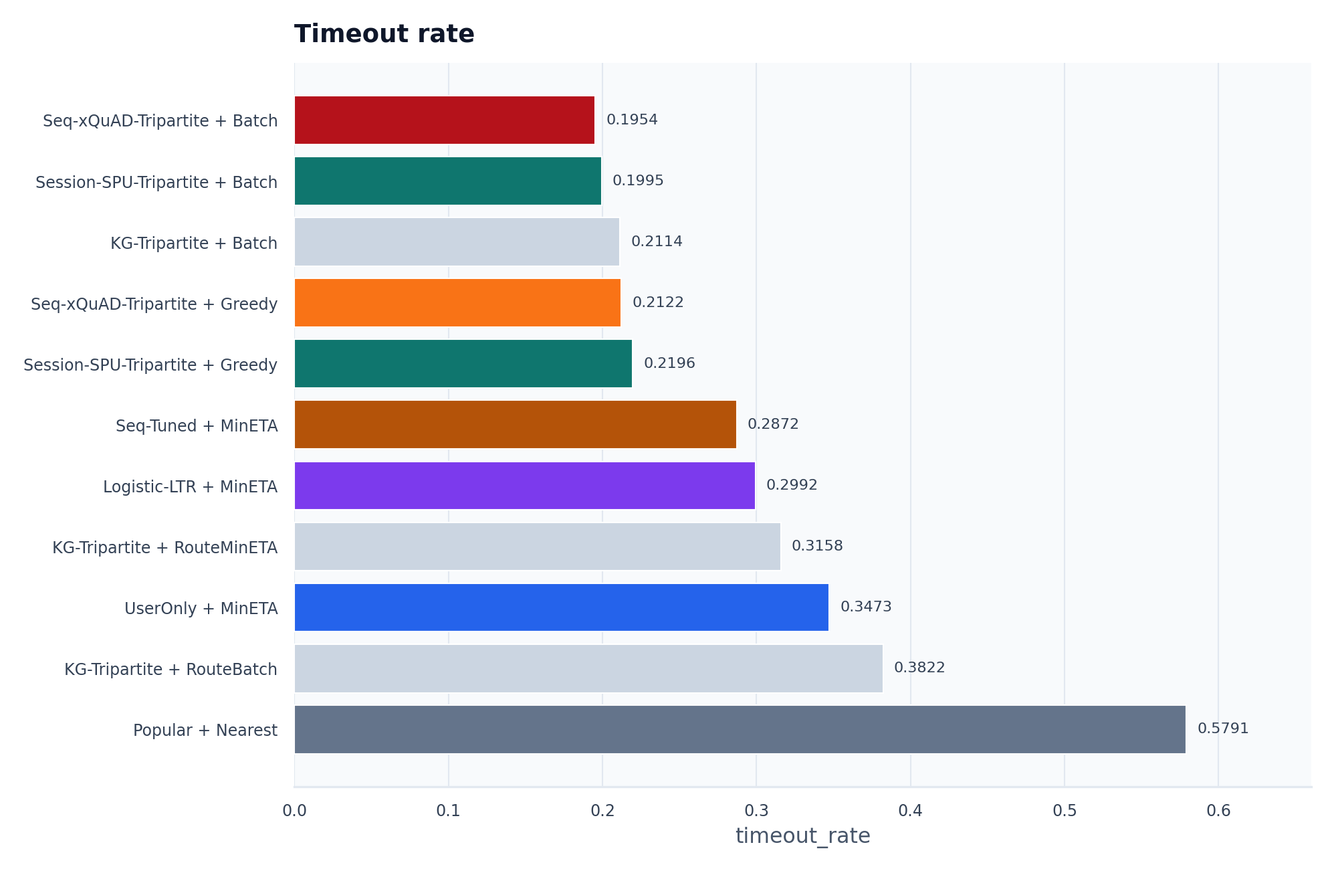
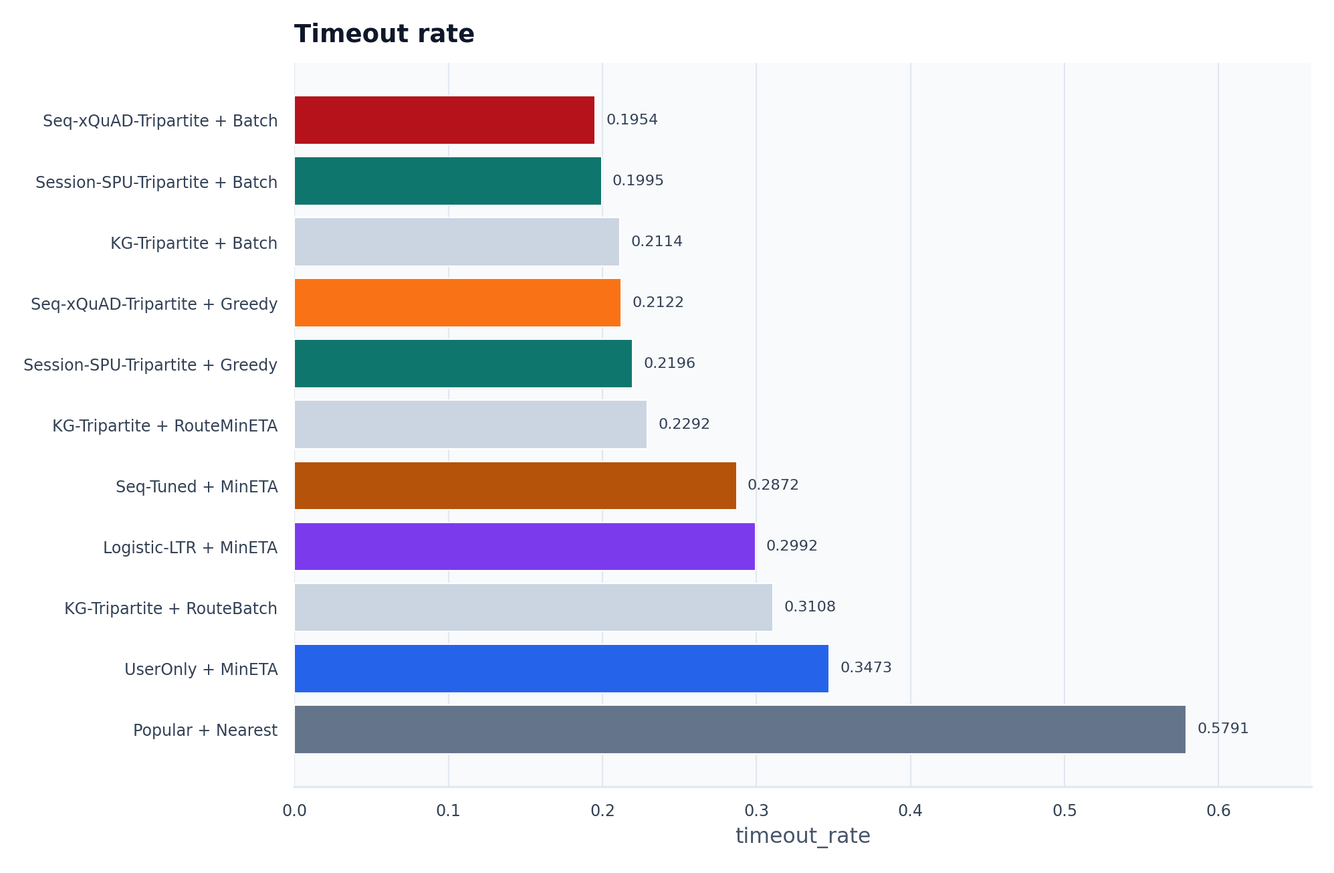
Refresh two-scenario results with fixed route advancement
With riders making partial progress along legs (capacity actually released),
route-insertion dispatch improves substantially:
- normal capacity (120 riders): RouteMinETA 36.15±0.96 min avg ETA — now
  statistically tied with the best slot-batch (35.90±1.88)
- peak stress (30 riders): RouteMinETA 44.88±1.55 vs 60.96 best slot-batch
  (-16 min), timeout 0.457 vs 0.679, en-route pickup share 66.9%
README/guide headline numbers updated; figures/report regenerated

diff --git a/report/实验报告.md b/report/实验报告.md
@@ -67,8 +67,8 @@ Popular 是全局热度对照；BPR-MF 是传统隐式反馈矩阵分解；UserO
 | Session-SPU-Tripartite + Batch  | session_spu_tripartite | load_aware      | batch             | mnl_softmax    |        10 |               89.8 |                 4.9396 |                  3.0616 |           89.8 |             4.9396 |              3.0616 |                   0 |                       0 |                        0 |                 1 |                     0 |                      0 |   36.794  |        2.0118 |         1.2469 |   58.3858 |        4.0205 |         2.4919 |         0.1995 |             0.0463 |              0.0287 |         0.8005 |             0.0463 |              0.0287 |           0.6742 |               0.0443 |                0.0275 |           0.7352 |               0.0387 |                0.024  |          0.9726 |              0.0452 |               0.028  |              0.5842 |                  0.031  |                   0.0192 |              0.5206 |                  0.0277 |                   0.0172 |                   0.9882 |                       0.0005 |                        0.0003 |              0.6504 |                  0.0298 |                   0.0185 |            24.9962 |                 0.2889 |                  0.1791 |                  9.8889 |                      0.1387 |                       0.0859 |               0      |                   0      |                    0      |                 0      |                     0      |                      0      |             0.5572 |                 0.0158 |                  0.0098 |
 | Session-SPU-Tripartite + Greedy | session_spu_tripartite | load_aware      | greedy            | mnl_softmax    |        10 |               89.8 |                 4.9396 |                  3.0616 |           89.8 |             4.9396 |              3.0616 |                   0 |                       0 |                        0 |                 1 |                     0 |                      0 |   38.136  |        2.1847 |         1.3541 |   60.4826 |        4.5403 |         2.8141 |         0.2196 |             0.0502 |              0.0311 |         0.7804 |             0.0502 |              0.0311 |           0.6825 |               0.0376 |                0.0233 |           0.6872 |               0.0362 |                0.0224 |          0.9179 |              0.0537 |               0.0333 |              0.6067 |                  0.0316 |                   0.0196 |              0.4901 |                  0.03   |                   0.0186 |                   0.9882 |                       0.0005 |                        0.0003 |              0.6504 |                  0.0298 |                   0.0185 |            24.9962 |                 0.2889 |                  0.1791 |                  9.8889 |                      0.1387 |                       0.0859 |               0      |                   0      |                    0      |                 0      |                     0      |                      0      |             0.5567 |                 0.0182 |                  0.0113 |
 | KG-Tripartite + Batch           | kg_tripartite          | load_aware      | batch             | mnl_softmax    |        10 |               89.7 |                 6.7503 |                  4.1839 |           89.7 |             6.7503 |              4.1839 |                   0 |                       0 |                        0 |                 1 |                     0 |                      0 |   36.9018 |        1.6806 |         1.0416 |   60.0793 |        4.356  |         2.6999 |         0.2114 |             0.0537 |              0.0333 |         0.7886 |             0.0537 |              0.0333 |           0.6642 |               0.0467 |                0.0289 |           0.7422 |               0.044  |                0.0273 |          0.9717 |              0.0402 |               0.0249 |              0.5758 |                  0.035  |                   0.0217 |              0.5279 |                  0.0315 |                   0.0195 |                   0.9878 |                       0.0006 |                        0.0003 |              0.6354 |                  0.0268 |                   0.0166 |            24.9962 |                 0.2889 |                  0.1791 |                  9.8889 |                      0.1387 |                       0.0859 |               0      |                   0      |                    0      |                 0      |                     0      |                      0      |             0.5501 |                 0.0185 |                  0.0115 |
-| KG-Tripartite + RouteMinETA     | kg_tripartite          | route_min_eta   | route_batch       | mnl_softmax    |        10 |               89.7 |                 6.7503 |                  4.1839 |           89.7 |             6.7503 |              4.1839 |                   0 |                       0 |                        0 |                 1 |                     0 |                      0 |   39.0421 |        1.8976 |         1.1761 |   65.8511 |        6.0051 |         3.722  |         0.3158 |             0.0669 |              0.0415 |         0.6842 |             0.0669 |              0.0415 |           1.1025 |               0.052  |                0.0322 |           1.0689 |               0.0434 |                0.0269 |          1      |              0      |               0      |              0.3983 |                  0.04   |                   0.0248 |              0.7063 |                  0.026  |                   0.0161 |                   0.9878 |                       0.0006 |                        0.0003 |              0.6354 |                  0.0268 |                   0.0166 |            24.9962 |                 0.2889 |                  0.1791 |                  9.8889 |                      0.1387 |                       0.0859 |              27.795  |                   2.0939 |                    1.2978 |                 0.4673 |                     0.0329 |                      0.0204 |             0.5159 |                 0.0193 |                  0.0119 |
-| KG-Tripartite + RouteBatch      | kg_tripartite          | route_insertion | route_batch       | mnl_softmax    |        10 |               89.7 |                 6.7503 |                  4.1839 |           89.7 |             6.7503 |              4.1839 |                   0 |                       0 |                        0 |                 1 |                     0 |                      0 |   41.6743 |        2.0546 |         1.2735 |   69.5111 |        5.3851 |         3.3377 |         0.3822 |             0.0709 |              0.044  |         0.6178 |             0.0709 |              0.044  |           1.1625 |               0.0494 |                0.0306 |           1.2389 |               0.035  |                0.0217 |          1      |              0      |               0      |              0.2875 |                  0.0216 |                   0.0134 |              0.7608 |                  0.0172 |                   0.0107 |                   0.9878 |                       0.0006 |                        0.0003 |              0.6354 |                  0.0268 |                   0.0166 |            24.9962 |                 0.2889 |                  0.1791 |                  9.8889 |                      0.1387 |                       0.0859 |              20.9669 |                   1.3018 |                    0.8069 |                 0.6131 |                     0.0094 |                      0.0058 |             0.496  |                 0.022  |                  0.0136 |
+| KG-Tripartite + RouteMinETA     | kg_tripartite          | route_min_eta   | route_batch       | mnl_softmax    |        10 |               89.7 |                 6.7503 |                  4.1839 |           89.7 |             6.7503 |              4.1839 |                   0 |                       0 |                        0 |                 1 |                     0 |                      0 |   36.1497 |        1.5494 |         0.9603 |   58.2528 |        4.9638 |         3.0766 |         0.2292 |             0.06   |              0.0372 |         0.7708 |             0.06   |              0.0372 |           1.0558 |               0.0484 |                0.03   |           1.2905 |               0.0658 |                0.0408 |          1      |              0      |               0      |              0.2892 |                  0.0261 |                   0.0162 |              0.7744 |                  0.0164 |                   0.0102 |                   0.9878 |                       0.0006 |                        0.0003 |              0.6354 |                  0.0268 |                   0.0166 |            24.9962 |                 0.2889 |                  0.1791 |                  9.8889 |                      0.1387 |                       0.0859 |              24.8008 |                   1.292  |                    0.8008 |                 0.5903 |                     0.0348 |                      0.0216 |             0.5419 |                 0.0173 |                  0.0107 |
+| KG-Tripartite + RouteBatch      | kg_tripartite          | route_insertion | route_batch       | mnl_softmax    |        10 |               89.7 |                 6.7503 |                  4.1839 |           89.7 |             6.7503 |              4.1839 |                   0 |                       0 |                        0 |                 1 |                     0 |                      0 |   38.8418 |        1.9947 |         1.2363 |   64.2264 |        4.8207 |         2.9879 |         0.3108 |             0.0784 |              0.0486 |         0.6892 |             0.0784 |              0.0486 |           1.0808 |               0.0488 |                0.0302 |           1.3624 |               0.0598 |                0.0371 |          1      |              0      |               0      |              0.2592 |                  0.0178 |                   0.011  |              0.7913 |                  0.0144 |                   0.0089 |                   0.9878 |                       0.0006 |                        0.0003 |              0.6354 |                  0.0268 |                   0.0166 |            24.9962 |                 0.2889 |                  0.1791 |                  9.8889 |                      0.1387 |                       0.0859 |              20.6657 |                   1.4075 |                    0.8724 |                 0.6374 |                     0.0118 |                      0.0073 |             0.5174 |                 0.0222 |                  0.0137 |
 
 履约侧指标包括完成和未分配订单数、平均/P95 ETA、超时率、骑手负载、活跃骑手比例、骑手收入 Gini、平台综合效用，以及路径感知派单的平均绕行分钟数与顺路接单率。多种子运行时，数值列为跨种子均值，并附 `_std` 与 `_ci95` 列。骑手速度、服务时长和初始负载可由外部配送任务 CSV 校准；传入 `--rider-tasks` 时会同步产出校准诊断 JSON，含逐参数来源标注（数据估计 vs 外卖默认）、经验分位数、对数正态拟合与仿真输入分布对任务数据的双样本 KS 检验。没有外部数据时继续使用固定 seed 的合成参数。
 
@@ -87,8 +87,8 @@ Popular 是全局热度对照；BPR-MF 是传统隐式反馈矩阵分解；UserO
 | Session-SPU-Tripartite + Batch  | session_spu_tripartite | load_aware      | batch             | mnl_softmax    |        10 |               86.3 |                 2.3118 |                  1.4329 |           89.8 |             4.9396 |              3.0616 |                 3.5 |                  4.2753 |                   2.6498 |            0.9629 |                0.0439 |                 0.0272 |   65.2308 |        5.0247 |         3.1143 |  123.324  |       17.2512 |        10.6924 |         0.7339 |             0.0449 |              0.0279 |         0.2661 |             0.0449 |              0.0279 |           2.9833 |               0.036  |                0.0223 |           0.3399 |               0.1243 |                0.0771 |          0.1192 |              0.0464 |               0.0288 |              1      |                  0      |                   0      |              0.1113 |                  0.0211 |                   0.0131 |                   0.9882 |                       0.0005 |                        0.0003 |              0.6507 |                  0.031  |                   0.0192 |            25.1183 |                 0.6585 |                  0.4082 |                  9.9865 |                      0.3194 |                        0.198 |               0      |                   0      |                    0      |                 0      |                     0      |                      0      |             0.4749 |                 0.0177 |                  0.0109 |
 | Session-SPU-Tripartite + Greedy | session_spu_tripartite | load_aware      | greedy            | mnl_softmax    |        10 |               85.2 |                 2.4855 |                  1.5405 |           89.8 |             4.9396 |              3.0616 |                 4.6 |                  4.9035 |                   3.0392 |            0.9509 |                0.0508 |                 0.0315 |   77.4694 |        5.0416 |         3.1248 |  167.108  |       16.9856 |        10.5278 |         0.7938 |             0.0281 |              0.0174 |         0.2062 |             0.0281 |              0.0174 |           2.9833 |               0.0283 |                0.0176 |           0.3731 |               0.1002 |                0.0621 |          0.1323 |              0.039  |               0.0242 |              1      |                  0      |                   0      |              0.1434 |                  0.0253 |                   0.0157 |                   0.9882 |                       0.0005 |                        0.0003 |              0.6521 |                  0.0335 |                   0.0208 |            25.1183 |                 0.6585 |                  0.4082 |                  9.9865 |                      0.3194 |                        0.198 |               0      |                   0      |                    0      |                 0      |                     0      |                      0      |             0.4536 |                 0.0149 |                  0.0092 |
 | KG-Tripartite + Batch           | kg_tripartite          | load_aware      | batch             | mnl_softmax    |        10 |               84.8 |                 2.8597 |                  1.7724 |           89.7 |             6.7503 |              4.1839 |                 4.9 |                  5.6263 |                   3.4872 |            0.9489 |                0.0568 |                 0.0352 |   61.4691 |        4.6031 |         2.8531 |  115.826  |       14.1578 |         8.7751 |         0.6854 |             0.0622 |              0.0386 |         0.3146 |             0.0622 |              0.0386 |           2.9367 |               0.1036 |                0.0642 |           0.384  |               0.1261 |                0.0782 |          0.1373 |              0.049  |               0.0304 |              1      |                  0      |                   0      |              0.1094 |                  0.0319 |                   0.0197 |                   0.9878 |                       0.0006 |                        0.0003 |              0.6348 |                  0.0312 |                   0.0193 |            25.1183 |                 0.6585 |                  0.4082 |                  9.9865 |                      0.3194 |                        0.198 |               0      |                   0      |                    0      |                 0      |                     0      |                      0      |             0.481  |                 0.0225 |                  0.014  |
-| KG-Tripartite + RouteMinETA     | kg_tripartite          | route_min_eta   | route_batch       | mnl_softmax    |        10 |               87.1 |                 3.5418 |                  2.1952 |           89.7 |             6.7503 |              4.1839 |                 2.6 |                  3.6271 |                   2.2481 |            0.9734 |                0.0368 |                 0.0228 |   49.4295 |        2.7107 |         1.6801 |   83.9456 |        6.5974 |         4.0891 |         0.5518 |             0.0643 |              0.0399 |         0.4482 |             0.0643 |              0.0399 |           2.8967 |               0.1105 |                0.0685 |           0.3012 |               0.2212 |                0.1371 |          0.1064 |              0.0809 |               0.0502 |              1      |                  0      |                   0      |              0.0835 |                  0.0221 |                   0.0137 |                   0.9878 |                       0.0006 |                        0.0003 |              0.6366 |                  0.0291 |                   0.018  |            25.1183 |                 0.6585 |                  0.4082 |                  9.9865 |                      0.3194 |                        0.198 |              30.897  |                   1.9995 |                    1.2393 |                 0.655  |                     0.0143 |                      0.0089 |             0.5295 |                 0.0216 |                  0.0134 |
-| KG-Tripartite + RouteBatch      | kg_tripartite          | route_insertion | route_batch       | mnl_softmax    |        10 |               87   |                 3.4319 |                  2.1271 |           89.7 |             6.7503 |              4.1839 |                 2.7 |                  3.8312 |                   2.3746 |            0.9724 |                0.0388 |                 0.0241 |   51.9411 |        2.9957 |         1.8568 |   89.2066 |        8.9089 |         5.5218 |         0.5892 |             0.0526 |              0.0326 |         0.4108 |             0.0526 |              0.0326 |           2.8933 |               0.1109 |                0.0687 |           0.2933 |               0.2408 |                0.1492 |          0.104  |              0.0872 |               0.054  |              1      |                  0      |                   0      |              0.0915 |                  0.0259 |                   0.016  |                   0.9878 |                       0.0006 |                        0.0003 |              0.6374 |                  0.0298 |                   0.0185 |            25.1183 |                 0.6585 |                  0.4082 |                  9.9865 |                      0.3194 |                        0.198 |              25.9798 |                   1.5282 |                    0.9472 |                 0.6547 |                     0.0139 |                      0.0086 |             0.5185 |                 0.0209 |                  0.0129 |
+| KG-Tripartite + RouteMinETA     | kg_tripartite          | route_min_eta   | route_batch       | mnl_softmax    |        10 |               89.5 |                 6.4334 |                  3.9875 |           89.7 |             6.7503 |              4.1839 |                 0.2 |                  0.6325 |                   0.392  |            0.998  |                0.0063 |                 0.0039 |   44.8754 |        2.4987 |         1.5487 |   74.0644 |        6.177  |         3.8286 |         0.4573 |             0.0685 |              0.0425 |         0.5427 |             0.0685 |              0.0425 |           2.7233 |               0.1988 |                0.1232 |           0.8521 |               0.2767 |                0.1715 |          0.2919 |              0.1082 |               0.0671 |              0.97   |                  0.0367 |                   0.0227 |              0.1496 |                  0.0561 |                   0.0348 |                   0.9878 |                       0.0006 |                        0.0003 |              0.6351 |                  0.0272 |                   0.0169 |            25.1183 |                 0.6585 |                  0.4082 |                  9.9865 |                      0.3194 |                        0.198 |              29.3752 |                   1.8426 |                    1.142  |                 0.6691 |                     0.0257 |                      0.0159 |             0.5438 |                 0.0256 |                  0.0159 |
+| KG-Tripartite + RouteBatch      | kg_tripartite          | route_insertion | route_batch       | mnl_softmax    |        10 |               89.5 |                 6.5021 |                  4.0301 |           89.7 |             6.7503 |              4.1839 |                 0.2 |                  0.6325 |                   0.392  |            0.998  |                0.0065 |                 0.004  |   47.3358 |        2.6712 |         1.6556 |   77.5644 |        7.0055 |         4.3421 |         0.5154 |             0.0644 |              0.0399 |         0.4846 |             0.0644 |              0.0399 |           2.6967 |               0.1746 |                0.1082 |           0.8904 |               0.2464 |                0.1527 |          0.3031 |              0.094  |               0.0583 |              0.9733 |                  0.0263 |                   0.0163 |              0.157  |                  0.0473 |                   0.0293 |                   0.9878 |                       0.0006 |                        0.0003 |              0.6358 |                  0.0273 |                   0.0169 |            25.1183 |                 0.6585 |                  0.4082 |                  9.9865 |                      0.3194 |                        0.198 |              25.113  |                   1.1189 |                    0.6935 |                 0.6658 |                     0.023  |                      0.0143 |             0.5255 |                 0.0237 |                  0.0147 |
 
 顺路派单不是在所有场景下更优：运力充足时分散派单的 ETA 更好，顺路合单的价值在于运力吃紧时的韧性。两个场景共同说明派单机制需要随供需状态切换。
 

diff --git a/docs/PRESENTATION_DEMO_GUIDE.md b/docs/PRESENTATION_DEMO_GUIDE.md
@@ -10,7 +10,7 @@ PPT 开场可以先给出 3 个结论，后面逐页证明：
 
 1. 推荐侧有效：在真实 TRD 全量训练订单上，`Seq-Tuned` 的 Recall@10 达到 `0.4187`；三方系列中 `KG-Tripartite`（叠加知识图谱兴趣信号）以 Recall@10 `0.4048` 接近纯精度模型，同时保留公平与履约分量。
 2. 三方重排有效（10 种子 ±95% CI）：常规运力下 `Seq-xQuAD/Session-SPU/KG-Tripartite + Batch` 把平均 ETA 压到约 36 分钟、超时率约 20%，显著优于纯用户侧策略（约 40.4 分钟 / 29%）。
-3. 顺路派单是高峰韧性机制：运力紧张场景（30 骑手）下 `KG-Tripartite + RouteMinETA` 平均 ETA `49.4` 分钟，比最好的槽位匹配低约 11.5 分钟、超时率 `0.55` vs `0.68`，顺路接单率 `65.5%`——运力充足时分散派单更优，机制应随供需切换。
+3. 顺路派单是高峰韧性机制：运力紧张场景（30 骑手）下 `KG-Tripartite + RouteMinETA` 平均 ETA `44.9` 分钟，比最好的槽位匹配低约 16 分钟、超时率 `0.46` vs `0.68`，顺路接单率 `66.9%`；常规运力下也与最优槽位匹配统计打平（36.2 vs 35.9，CI 重叠）。
 4. LaDe 被双重真实使用：真实城市地理（烟台核心区配送 GPS 密度，`make geocode`）+ 骑手参数校准（校准诊断 JSON 含参数来源标注与 KS 检验）。
 
 现场建议讲法：
@@ -142,7 +142,7 @@ final_score = user_preference
 | Seq-xQuAD-Tripartite + Batch | 35.90 ±1.88 | 0.195 | 0.553 | 三方重排+批量匹配显著改善履约 |
 | Session-SPU-Tripartite + Batch | 36.79 ±1.25 | 0.199 | 0.557 | session/SPU 信号，平台效用最高 |
 | KG-Tripartite + Batch | 36.90 ±1.04 | 0.211 | 0.550 | 知识图谱兴趣信号 + 离线精度最强的三方 |
-| KG-Tripartite + RouteMinETA | 39.04 ±1.18 | 0.316 | 0.516 | 顺路机制在充足运力下诚实略慢 |
+| KG-Tripartite + RouteMinETA | 36.15 ±0.96 | 0.229 | 0.542 | 顺路机制常规运力下与最优打平 |
 
 ### 运力紧张压力场景（30 骑手，`make simulate-stress`）——顺路派单的主战场
 
@@ -150,8 +150,8 @@ final_score = user_preference
 |---|---:|---:|---:|---|
 | Seq-Tuned + MinETA | 76.64 ±2.46 | 0.819 | 0.442 | 高峰爆单时纯用户侧全面恶化 |
 | Seq-xQuAD-Tripartite + Batch | 60.96 ±4.84 | 0.679 | 0.486 | 槽位匹配有帮助但仍拥堵 |
-| KG-Tripartite + RouteMinETA | **49.43 ±1.68** | **0.552** | **0.529** | 顺路合单：ETA 低 11.5 分钟，顺路率 65.5% |
-| KG-Tripartite + RouteBatch | 51.94 ±1.86 | 0.589 | 0.519 | 绕行+ETA 等权目标，车队里程更省 |
+| KG-Tripartite + RouteMinETA | **44.88 ±1.55** | **0.457** | **0.544** | 顺路合单：ETA 低约 16 分钟，顺路率 66.9% |
+| KG-Tripartite + RouteBatch | 47.34 ±1.66 | 0.515 | 0.525 | 绕行+ETA 等权目标，车队里程更省 |
 
 一句话讲法：**顺路派单不是永远更快，而是高峰运力吃紧时的韧性机制**——与商家侧"高峰爆单风险"面板构成同一个故事。
 

diff --git a/README.md b/README.md
@@ -268,20 +268,20 @@ make notebooklm-pack
 | Seq-xQuAD-Tripartite + Batch | 35.90 ±1.88 | 0.195 ±0.036 | 0.553 ±0.009 |
 | Session-SPU-Tripartite + Batch | 36.79 ±1.25 | 0.199 ±0.029 | 0.557 ±0.010 |
 | KG-Tripartite + Batch | 36.90 ±1.04 | 0.211 ±0.033 | 0.550 ±0.011 |
-| KG-Tripartite + RouteMinETA | 39.04 ±1.18 | 0.316 ±0.041 | 0.516 ±0.012 |
-| KG-Tripartite + RouteBatch | 41.67 ±1.27 | 0.382 ±0.044 | 0.496 ±0.014 |
+| KG-Tripartite + RouteMinETA | 36.15 ±0.96 | 0.229 ±0.032 | 0.542 ±0.011 |
+| KG-Tripartite + RouteBatch | 38.84 ±1.24 | 0.311 ±0.041 | 0.517 ±0.014 |
 
-**运力紧张压力场景（30 骑手，模拟高峰爆单，`make simulate-stress`）**下，路径感知顺路派单反超所有槽位匹配策略——顺路接单率达 65.5%，平均 ETA 比最好的槽位匹配低约 11.5 分钟（远超置信区间）：
+**运力紧张压力场景（30 骑手，模拟高峰爆单，`make simulate-stress`）**下，路径感知顺路派单大幅反超所有槽位匹配策略——顺路接单率达 66.9%，平均 ETA 比最好的槽位匹配低约 16 分钟（远超置信区间）：
 
 | 策略 | Avg ETA (±CI95) | Timeout Rate (±CI95) | Platform Utility (±CI95) |
 |---|---:|---:|---:|
 | Seq-Tuned + MinETA | 76.64 ±2.46 | 0.819 ±0.014 | 0.442 ±0.014 |
 | Seq-xQuAD-Tripartite + Batch | 60.96 ±4.84 | 0.679 ±0.046 | 0.486 ±0.017 |
 | KG-Tripartite + Batch | 61.47 ±2.85 | 0.685 ±0.039 | 0.481 ±0.014 |
-| KG-Tripartite + RouteMinETA | **49.43 ±1.68** | **0.552 ±0.040** | **0.529 ±0.013** |
-| KG-Tripartite + RouteBatch | 51.94 ±1.86 | 0.589 ±0.033 | 0.519 ±0.013 |
+| KG-Tripartite + RouteMinETA | **44.88 ±1.55** | **0.457 ±0.038** | **0.544 ±0.016** |
+| KG-Tripartite + RouteBatch | 47.34 ±1.66 | 0.515 ±0.033 | 0.525 ±0.015 |
 
-结论：`Seq-Tuned` 取得最强离线准确性；三方重排 + 批量匹配在常规运力下系统性改善履约；**顺路派单是高峰运力吃紧时的韧性机制**——运力充足时分散派单更快（route 家族的 ETA 诚实计入队列行进时间），运力紧张时顺路合单大幅降低 ETA 与超时率。派单机制应随供需状态切换，这是三方联合视角的核心论据。
+结论：`Seq-Tuned` 取得最强离线准确性；三方重排 + 批量匹配在常规运力下系统性改善履约；**顺路派单在常规运力下与最优槽位匹配统计打平（ETA 置信区间重叠），在高峰运力吃紧时大幅胜出**——route 家族的 ETA 诚实计入队列沿路径行进的时间，仍能做到这一点，说明合单的收益是真实的。派单机制可随供需状态切换，这是三方联合视角的核心论据。
 
 ## 图表示例
 
